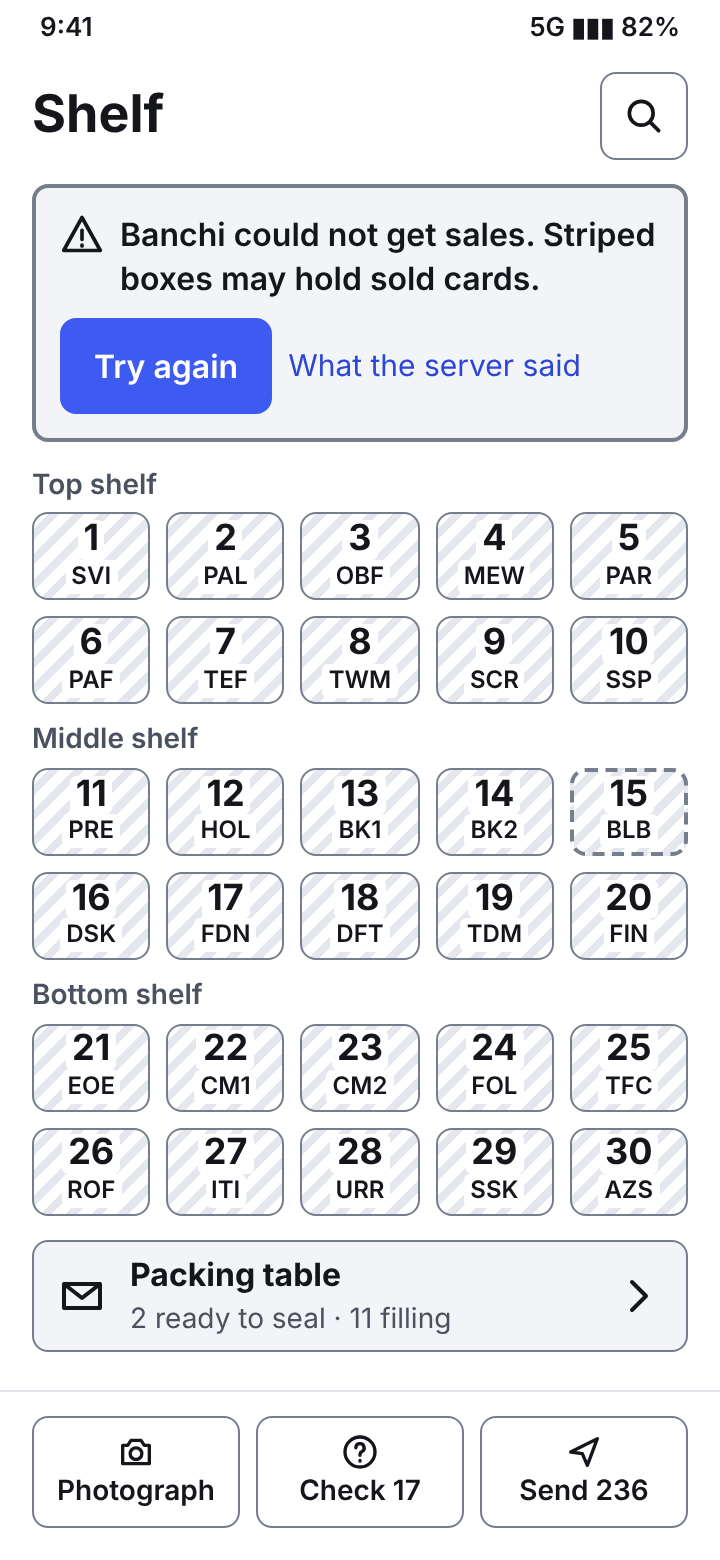
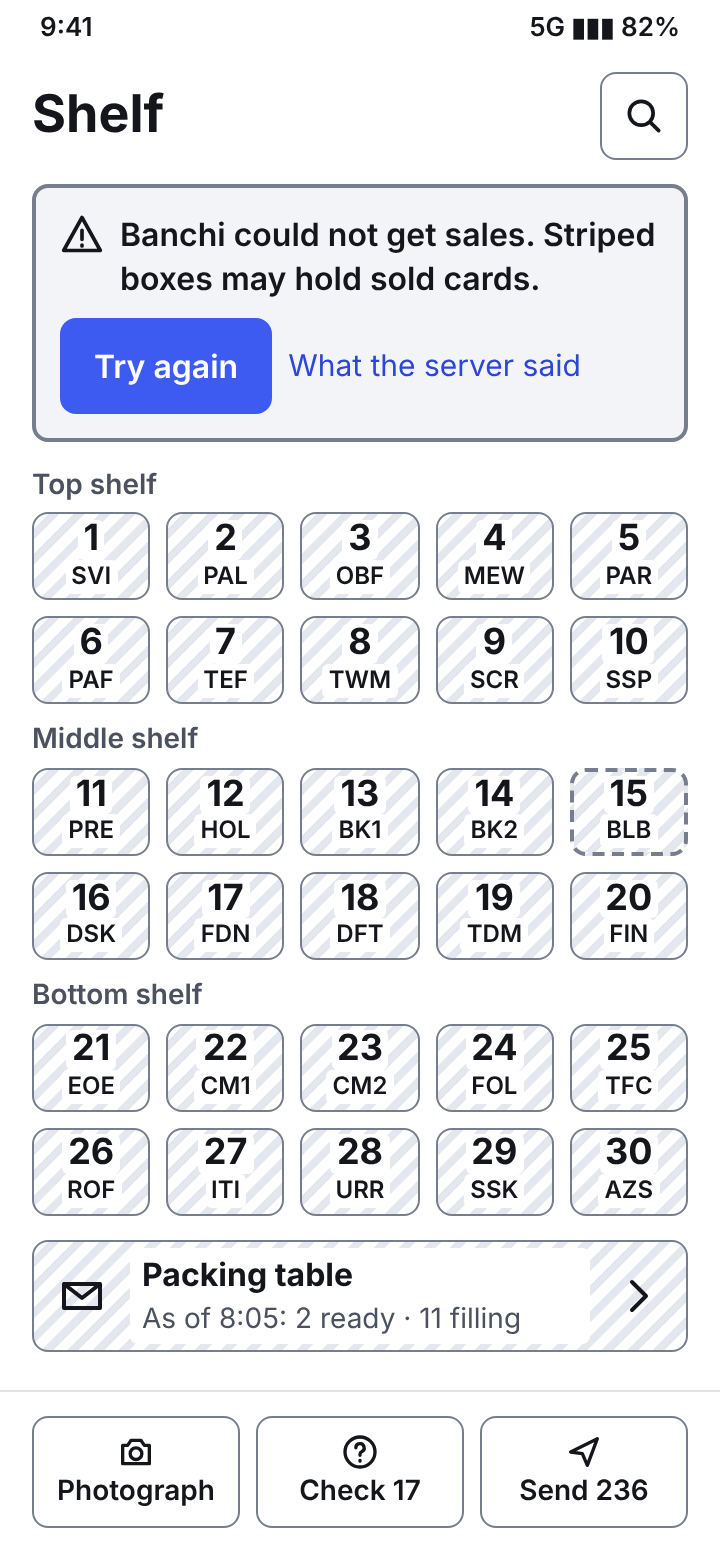
d4: N1 fix, notes, picks page for shiv (design review passed round 3)
Claude-Session: https://claude.ai/code/session_013NEJL2u86hPSv13Jrg8KjL

Changed region(s): [[0.1833, 0.8, 0.7333, 0.8615]]

diff --git a/designs/d4-banchi-phone/banchi-phone-picks.html b/designs/d4-banchi-phone/banchi-phone-picks.html
@@ -1,0 +1,195 @@
+<title>Banchi Phone Picks</title>
+<meta name="claude:viewport-fit-sides" content="cover">
+<link rel="preconnect" href="https://fonts.googleapis.com">
+<link rel="stylesheet" href="https://fonts.googleapis.com/css2?family=Atkinson+Hyperlegible:wght@400;700&family=Bricolage+Grotesque:opsz,wght@12..96,600;12..96,800&family=JetBrains+Mono:wght@400;600&display=swap">
+<style>
+/* Layout: one reading column of questions; each question's options sit side by side as phone pictures, wrapping on a phone. */
+:root {
+  --bg: #f6f7fc;
+  --surface: #ffffff;
+  --fg: #171a2b;
+  --muted: #5b6079;
+  --line: #dde0ee;
+  --blue: #3d5af1;
+  --blue-text: #2f49d6;
+  --blue-soft: #e8ecff;
+  --on-blue: #ffffff;
+  --display: "Bricolage Grotesque", "Avenir Next", system-ui, sans-serif;
+  --body: "Atkinson Hyperlegible", system-ui, -apple-system, "Segoe UI", sans-serif;
+  --mono: "JetBrains Mono", ui-monospace, "SFMono-Regular", Menlo, monospace;
+}
+@media (prefers-color-scheme: dark) { :root:not([data-theme="light"]) {
+  --bg: #0f1120; --surface: #181b2e; --fg: #e9ebf7; --muted: #a2a7c2; --line: #2b3050;
+  --blue: #3d5af1; --blue-text: #a3afff; --blue-soft: #1f2650; --on-blue: #ffffff; color-scheme: dark } }
+:root[data-theme="dark"] {
+  --bg: #0f1120; --surface: #181b2e; --fg: #e9ebf7; --muted: #a2a7c2; --line: #2b3050;
+  --blue: #3d5af1; --blue-text: #a3afff; --blue-soft: #1f2650; --on-blue: #ffffff; color-scheme: dark }
+
+body { background: var(--bg); color: var(--fg); font: 16px/1.55 var(--body); }
+.wrap { max-width: 1120px; margin: 0 auto; padding-block: 32px 64px;
+  padding-left: max(16px, env(safe-area-inset-left, 0px)); padding-right: max(16px, env(safe-area-inset-right, 0px));
+  display: grid; gap: 48px; }
+h1, h2, h3 { font-family: var(--display); text-wrap: balance; margin: 0; line-height: 1.15; }
+h1 { font-size: clamp(30px, 5vw, 46px); font-weight: 800; letter-spacing: -0.01em; }
+h2 { font-size: clamp(22px, 3vw, 28px); font-weight: 800; }
+h3 { font-size: 18px; font-weight: 600; }
+p { margin: 0; max-width: 68ch; }
+.eyebrow { font: 600 12px/1 var(--mono); letter-spacing: .08em; text-transform: uppercase; color: var(--blue-text); }
+.muted { color: var(--muted); }
+header { display: grid; gap: 14px; }
+.facts { display: flex; flex-wrap: wrap; gap: 8px; }
+.fact { font: 13px/1.3 var(--mono); padding: 6px 10px; border: 1px solid var(--line); border-radius: 6px; background: var(--surface); }
+.fact b { color: var(--blue-text); font-weight: 600; }
+
+section.q { display: grid; gap: 18px; }
+.qhead { display: grid; gap: 6px; }
+.options { display: grid; gap: 16px; grid-template-columns: repeat(auto-fit, minmax(220px, 1fr)); }
+.options.wide { grid-template-columns: 1fr; }
+.opt { background: var(--surface); border: 1px solid var(--line); border-radius: 10px; padding: 14px;
+  display: grid; gap: 10px; align-content: start; min-width: 0; }
+.opt.picked { border-color: var(--blue); box-shadow: 0 0 0 1px var(--blue); }
+.opt-top { display: flex; gap: 10px; align-items: baseline; flex-wrap: wrap; }
+.letter { font: 700 14px/1 var(--mono); background: var(--blue-soft); color: var(--blue-text); border-radius: 4px; padding: 4px 7px; }
+.opt img { width: 100%; height: auto; border-radius: 8px; border: 1px solid var(--line); display: block; background: var(--bg); }
+.wide .opt img { max-height: 520px; object-fit: contain; }
+dl { margin: 0; display: grid; grid-template-columns: auto 1fr; gap: 4px 10px; font-size: 15px; }
+dt { font: 600 12px/1.9 var(--mono); text-transform: uppercase; letter-spacing: .06em; color: var(--muted); }
+dd { margin: 0; min-width: 0; }
+.tags { display: flex; gap: 6px; flex-wrap: wrap; }
+.tag { font: 600 12px/1 var(--mono); padding: 5px 8px; border-radius: 999px; background: var(--blue); color: var(--on-blue); }
+.tag.alt { background: transparent; color: var(--blue-text); border: 1px solid var(--blue-text); }
+.verdict { background: var(--surface); border: 1px solid var(--line); border-radius: 10px; padding: 16px; display: grid; gap: 8px; }
+ul { margin: 0; padding-left: 20px; display: grid; gap: 6px; max-width: 72ch; }
+code { font: 14px var(--mono); }
+a { color: var(--blue-text); }
+a:focus-visible { outline: 2px solid var(--blue); outline-offset: 2px; }
+</style>
+
+<main class="wrap">
+<header>
+  <span class="eyebrow">Step d4 · blind design test · for shiv</span>
+  <h1>A phone app for Banchi: four picks</h1>
+  <p class="muted">A blind designer drew three directions for the job "bulk-list pre-sorted singles with zero attention per card, and know where every card physically is", for the seller and for the helper at the shelf. A separate design reviewer checked every screen at both Duo sizes in light and dark. Every option below has its own picture of the thing being decided.</p>
+  <div class="facts">
+    <span class="fact">Assumed Duo size: <b>360×780 folded</b>, <b>760×780 unfolded</b> (none written anywhere; confirm)</span>
+    <span class="fact">Review: <b id="review-state">passed, round 3 of 3</b></span>
+    <span class="fact">Colour: Banchi blue <b>#3d5af1</b> only</span>
+  </div>
+</header>
+
+<section class="q" id="q1">
+  <div class="qhead">
+    <span class="eyebrow">Question 1</span>
+    <h2>Which direction or directions do you keep?</h2>
+    <p class="muted">Each picture shows four states of the direction on the folded phone: empty, loading, a full list and an error.</p>
+  </div>
+  <div class="options wide">
+    <article class="opt">
+      <div class="opt-top"><span class="letter">A</span><h3>D1 · Four tabs</h3></div>
+      <img src="png/d1-overview.png" alt="D1 Four tabs: a bottom tab bar with Pull, Shoot, Check and Send; first screen is the Pull list grouped by box" loading="lazy">
+      <dl><dt>Gain</dt><dd>Familiar. Every act is one tap away. Follows the house tab-bar rule. Easy to build.</dd>
+          <dt>Loss</dt><dd>The helper sees seller tabs and badges they never use, and reads a long list.</dd></dl>
+    </article>
+    <article class="opt picked">
+      <div class="opt-top"><span class="letter">B</span><h3>D2 · Today</h3>
+        <span class="tags"><span class="tag">Designer's pick</span><span class="tag">Reviewer's pick</span></span></div>
+      <img src="png/d2-overview.png" alt="D2 Today: no tabs; a home that lists today's jobs as sentences, each opening a guided walk of one card per screen" loading="lazy">
+      <dl><dt>Gain</dt><dd>Screens explain themselves. The helper sees one card per screen in plain sentences. The next job is always on top.</dd>
+          <dt>Loss</dt><dd>No tab bar (breaks a house rule). No overview of every pull at once. More taps for a seller who knows the app.</dd></dl>
+    </article>
+    <article class="opt">
+      <div class="opt-top"><span class="letter">C</span><h3>D3 · Shelf (the bold one)</h3></div>
+      <img src="png/d3-overview.png" alt="D3 Shelf: the first screen is a drawing of the real shelf with 30 box tiles; boxes with sold cards are blue; tap to zoom into a box drawn from above" loading="lazy">
+      <dl><dt>Gain</dt><dd>The screen matches the shelf in front of the helper. A card's place in its box is a picture, not a number.</dd>
+          <dt>Loss</dt><dd>New to everyone. The grid stops fitting at about 30 boxes. Each real box needs a number label.</dd></dl>
+    </article>
+  </div>
+  <div class="verdict"><p><b>Both picks: B</b>, and take D3's box drawing for the helper's "I cannot find it" screen. The reviewer: only D2 serves both people with no defect in its structure.</p></div>
+</section>
+
+<section class="q" id="q2">
+  <div class="qhead">
+    <span class="eyebrow">Question 2</span>
+    <h2>How does the helper find the card inside the box?</h2>
+  </div>
+  <div class="options">
+    <article class="opt">
+      <div class="opt-top"><span class="letter">A</span><h3>Count from the front</h3></div>
+      <img src="png/pick-2-a.png" alt="Pull screen saying: count 108 cards from the front" loading="lazy">
+      <dl><dt>Gain</dt><dd>One number, always true.</dd><dt>Loss</dt><dd>Counting 108 cards by hand is slow and easy to get wrong.</dd></dl>
+    </article>
+    <article class="opt picked">
+      <div class="opt-top"><span class="letter">B</span><h3>Count from a divider</h3>
+        <span class="tags"><span class="tag">Designer</span><span class="tag">Reviewer</span></span></div>
+      <img src="png/pick-2-b.png" alt="Pull screen saying: find the divider Normal A–F, take the 34th card after it" loading="lazy">
+      <dl><dt>Gain</dt><dd>Short counts from a landmark.</dd><dt>Loss</dt><dd>Needs a divider about every 100 cards, named the same on the phone and in the box.</dd></dl>
+    </article>
+    <article class="opt">
+      <div class="opt-top"><span class="letter">C</span><h3>Show the two neighbours</h3>
+        <span class="tags"><span class="tag alt">Both: as the fallback</span></span></div>
+      <img src="png/pick-2-c.png" alt="Pull screen showing photographs of the card before and after the sold card" loading="lazy">
+      <dl><dt>Gain</dt><dd>No counting. Looks like the box.</dd><dt>Loss</dt><dd>Still needs a start point. A neighbour that sold and left breaks the hint.</dd></dl>
+    </article>
+  </div>
+</section>
+
+<section class="q" id="q3">
+  <div class="qhead">
+    <span class="eyebrow">Question 3</span>
+    <h2>When does the seller settle the cards Banchi is not sure of?</h2>
+  </div>
+  <div class="options">
+    <article class="opt">
+      <div class="opt-top"><span class="letter">A</span><h3>During the sitting</h3></div>
+      <img src="png/pick-3-a.png" alt="Camera screen stopped, with a sheet asking which card this is" loading="lazy">
+      <dl><dt>Gain</dt><dd>The card is still in hand.</dd><dt>Loss</dt><dd>Breaks "zero attention per card". The stack waits.</dd></dl>
+    </article>
+    <article class="opt picked">
+      <div class="opt-top"><span class="letter">B</span><h3>After, in a pile</h3>
+        <span class="tags"><span class="tag">Designer</span><span class="tag">Reviewer</span></span></div>
+      <img src="png/pick-3-b.png" alt="Check screen walking unsure cards one at a time, 1 of 17, with the photograph" loading="lazy">
+      <dl><dt>Gain</dt><dd>The sitting never stops. All answers in one go. Nothing is guessed.</dd><dt>Loss</dt><dd>The seller may need to find the card again for a close look (its place is shown).</dd></dl>
+    </article>
+    <article class="opt">
+      <div class="opt-top"><span class="letter">C</span><h3>Never by hand</h3></div>
+      <img src="png/pick-3-c.png" alt="Send screen showing 17 unsure cards held back from the send" loading="lazy">
+      <dl><dt>Gain</dt><dd>Zero attention.</dd><dt>Loss</dt><dd>Unsure cards are often the valuable printings, and they never get listed.</dd></dl>
+    </article>
+  </div>
+</section>
+
+<section class="q" id="q4">
+  <div class="qhead">
+    <span class="eyebrow">Question 4</span>
+    <h2>Does the helper get a home of their own?</h2>
+  </div>
+  <div class="options">
+    <article class="opt">
+      <div class="opt-top"><span class="letter">A</span><h3>One home for both</h3></div>
+      <img src="png/pick-4-a.png" alt="Today home listing every job, seller and helper alike" loading="lazy">
+      <dl><dt>Gain</dt><dd>One app and one set of screens to learn and build.</dd><dt>Loss</dt><dd>The helper sees seller jobs and money.</dd></dl>
+    </article>
+    <article class="opt picked">
+      <div class="opt-top"><span class="letter">B</span><h3>A helper home</h3>
+        <span class="tags"><span class="tag">Designer</span><span class="tag">Reviewer</span></span></div>
+      <img src="png/pick-4-b.png" alt="Helper home with only Start pulling and Envelopes to seal, and an I am the seller link" loading="lazy">
+      <dl><dt>Gain</dt><dd>Nothing on screen the helper does not use.</dd><dt>Loss</dt><dd>One more mode. The switch must not confuse the helper.</dd></dl>
+    </article>
+  </div>
+</section>
+
+<section class="q" id="also">
+  <div class="qhead">
+    <span class="eyebrow">Also needs your word</span>
+    <h2>Smaller grants inside the mockups</h2>
+  </div>
+  <ul>
+    <li><b>Duo size.</b> The mockups assume 360×780 folded and 760×780 unfolded. Nothing in the repos gives a size.</li>
+    <li><b>No tab bar in D2 and D3.</b> This breaks the house rule that phone navigation uses a bottom tab bar.</li>
+    <li><b>Auto-shoot.</b> The camera fires when a still card fills the guide. Keep it only if it can be built.</li>
+    <li><b>Buyer name on the envelope</b>, with the order number only in the order detail.</li>
+    <li><b>A number label on each real box</b> (Box 1 to 30). This asks the seller for a physical step.</li>
+  </ul>
+  <p class="muted">Files: <code>designs/d4-banchi-phone/</code> on the roadmap branch. The full mockup is <code>banchi-phone-blind-1.html</code>, the notes are <code>banchi-phone-blind-1-notes.md</code> and every state at both sizes and themes is in <code>png/</code>. All cards, orders and buyers are made up.</p>
+</section>
+</main>

diff --git a/designs/d4-banchi-phone/banchi-phone-blind-1.html b/designs/d4-banchi-phone/banchi-phone-blind-1.html
@@ -229,6 +229,8 @@ figcaption a{color:var(--accent-text)}
 .tile.sk{background:var(--surface-3);border:0}
 .tile.ghost{border:1px dashed var(--line);background:transparent}
 .table-tile{display:flex;align-items:center;gap:var(--space-3);min-height:56px;padding:0 var(--space-3);border-radius:var(--radius);border:1px solid var(--edge);background:var(--surface-2);text-align:left;width:100%}
+.table-tile.unk{background:repeating-linear-gradient(135deg,var(--surface) 0 5px,var(--surface-3) 5px 9px)}
+.table-tile.unk .pmain{background:var(--surface);padding:2px 6px;border-radius:4px}
 .table-tile svg{width:24px;height:24px;flex:none}
 .legend{display:flex;flex-wrap:wrap;gap:var(--space-3);font-size:14px;color:var(--text-2)}
 .legend span{display:inline-flex;gap:var(--space-1);align-items:center}
@@ -537,7 +539,7 @@ function tiles(s){
     if(s==="error")return `<button class="tile unk${w?" wait":""}" aria-label="Box ${b.no}, sales not known${w?`, ${SENDN.wait} wait for you`:""}"><b>${b.no}</b><small>${b.code}</small></button>`;
     return `<button class="tile${n?" lit":""}${w&&!n?" wait":""}" aria-label="Box ${b.no}, ${esc(b.name)}${n?`, ${n} to pull`:""}${w?`, ${SENDN.wait} wait for you`:""}"><b>${b.no}</b><small>${b.code}</small>${n?`<span class="badge" aria-hidden="true">${n}</span>`:""}</button>`}).join("")}</div></div>`).join("")+`</div>`;
 }
-const tableTile=()=>`<button class="table-tile">${ic("env")}<span class="pmain"><b>Packing table</b><span class="small muted">${PACK.length} ready to seal · ${PULL_ORDERS.length} filling</span></span>${ic("chev")}</button>`;
+const tableTile=(st=false)=>`<button class="table-tile${st?" unk":""}">${ic("env")}<span class="pmain"><b>Packing table</b><span class="small muted">${st?`As of ${NOW.stale}: ${PACK.length} ready · ${PULL_ORDERS.length} filling`:`${PACK.length} ready to seal · ${PULL_ORDERS.length} filling`}</span></span>${ic("chev")}</button>`;
 function d3Shelf(s){
   let body="",foot="";
   if(s==="empty"){
@@ -547,7 +549,7 @@ function d3Shelf(s){
       list:`<div class="legend"><span><i style="background:var(--accent)"></i>Blue: sold cards inside. Tap to open.</span><span><i style="border:2px dashed var(--edge)"></i>Dashed: cards wait for you</span></div>`,
       loading:loadNote("Getting today’s sales…"),
       error:`<div class="err err-c" role="alert"><p class="err-t">${ic("alert")}<span>Banchi could not get sales. Striped boxes may hold sold cards.</span></p><div class="cluster"><button class="btn btn-p">Try again</button>${why()}</div></div>`}[s];
-    body=lead+tiles(s)+(s==="loading"?"":tableTile());
+    body=lead+tiles(s)+(s==="loading"?"":tableTile(s==="error"));
     foot=`<div class="foot"><div class="act3"><button class="btn">${ic("camera")}Photograph</button><button class="btn">${ic("ask")}Check ${SENDN.wait}</button><button class="btn">${ic("send")}Send ${SENDN.ready}</button></div></div>`;
   }
   return `${status()}<header class="hd"><div class="hd-row"><h1>Shelf</h1><button class="icon-btn" aria-label="Find a card">${ic("search")}</button></div></header><div class="body">${body}</div>${foot}`;

diff --git a/designs/d4-banchi-phone/banchi-phone-blind-1-notes.md b/designs/d4-banchi-phone/banchi-phone-blind-1-notes.md
@@ -60,7 +60,7 @@ same blue (#a3afff) for 4.5:1; blue fills keep #3d5af1 with white text (4.9:1).
   the top, dividers as bands, each sold card as a blue line at its place. The Packing table shows one
   envelope per order with a dot per card, split into "Ready to seal" and "Still filling". Tapping a
   ready envelope opens a sheet (view `seal`): write the name, put the cards in, seal, then "Mark packed".
-  When sales cannot be read, all box tiles turn striped ("sales not known"); dashed keeps one meaning,
+  When sales cannot be read, all box tiles and the Packing table tile turn striped ("sales not known"; the Packing table reads "As of 8:05: 2 ready · 11 filling"); dashed keeps one meaning,
   "cards wait for you". The first screen fits 780 tall with the Packing table visible.
 - Gain: matches what the helper sees at the shelf; place in the box is a picture, not a number;
   the seller sees the whole store at a glance. Loss: 30 tiles (44 px tall) is the limit before the
